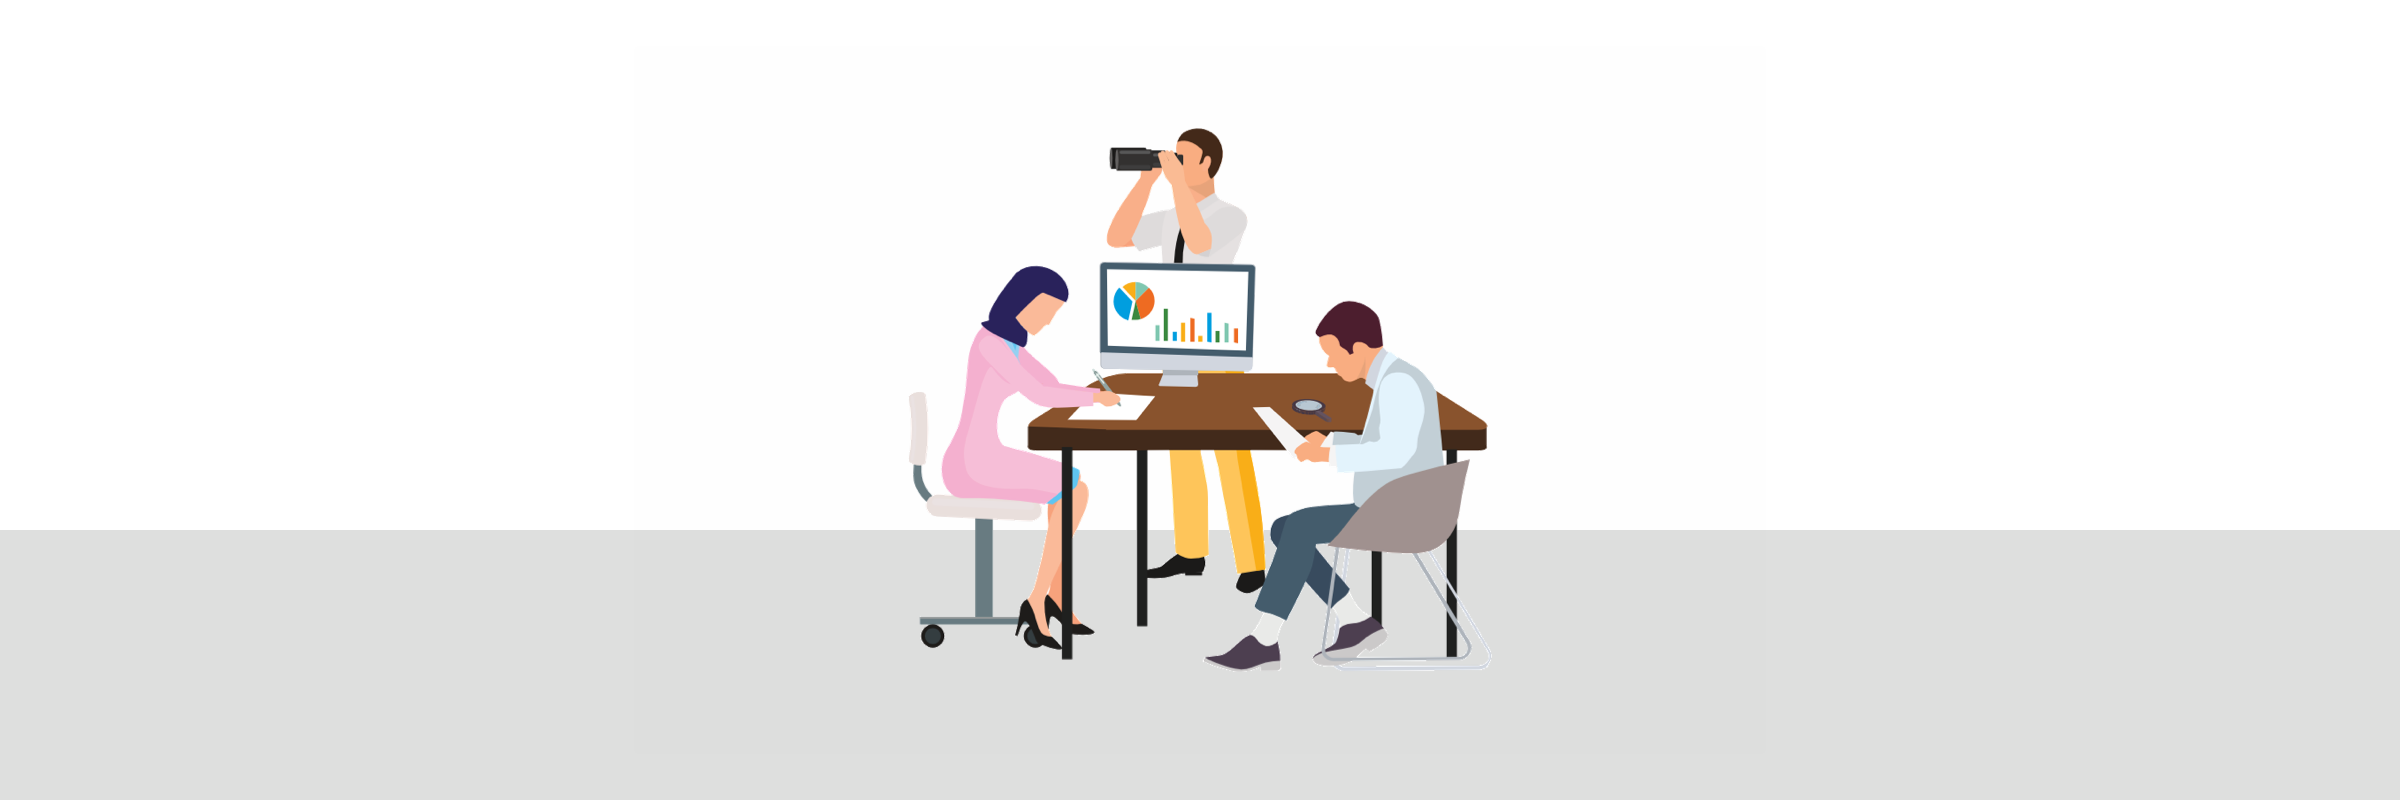
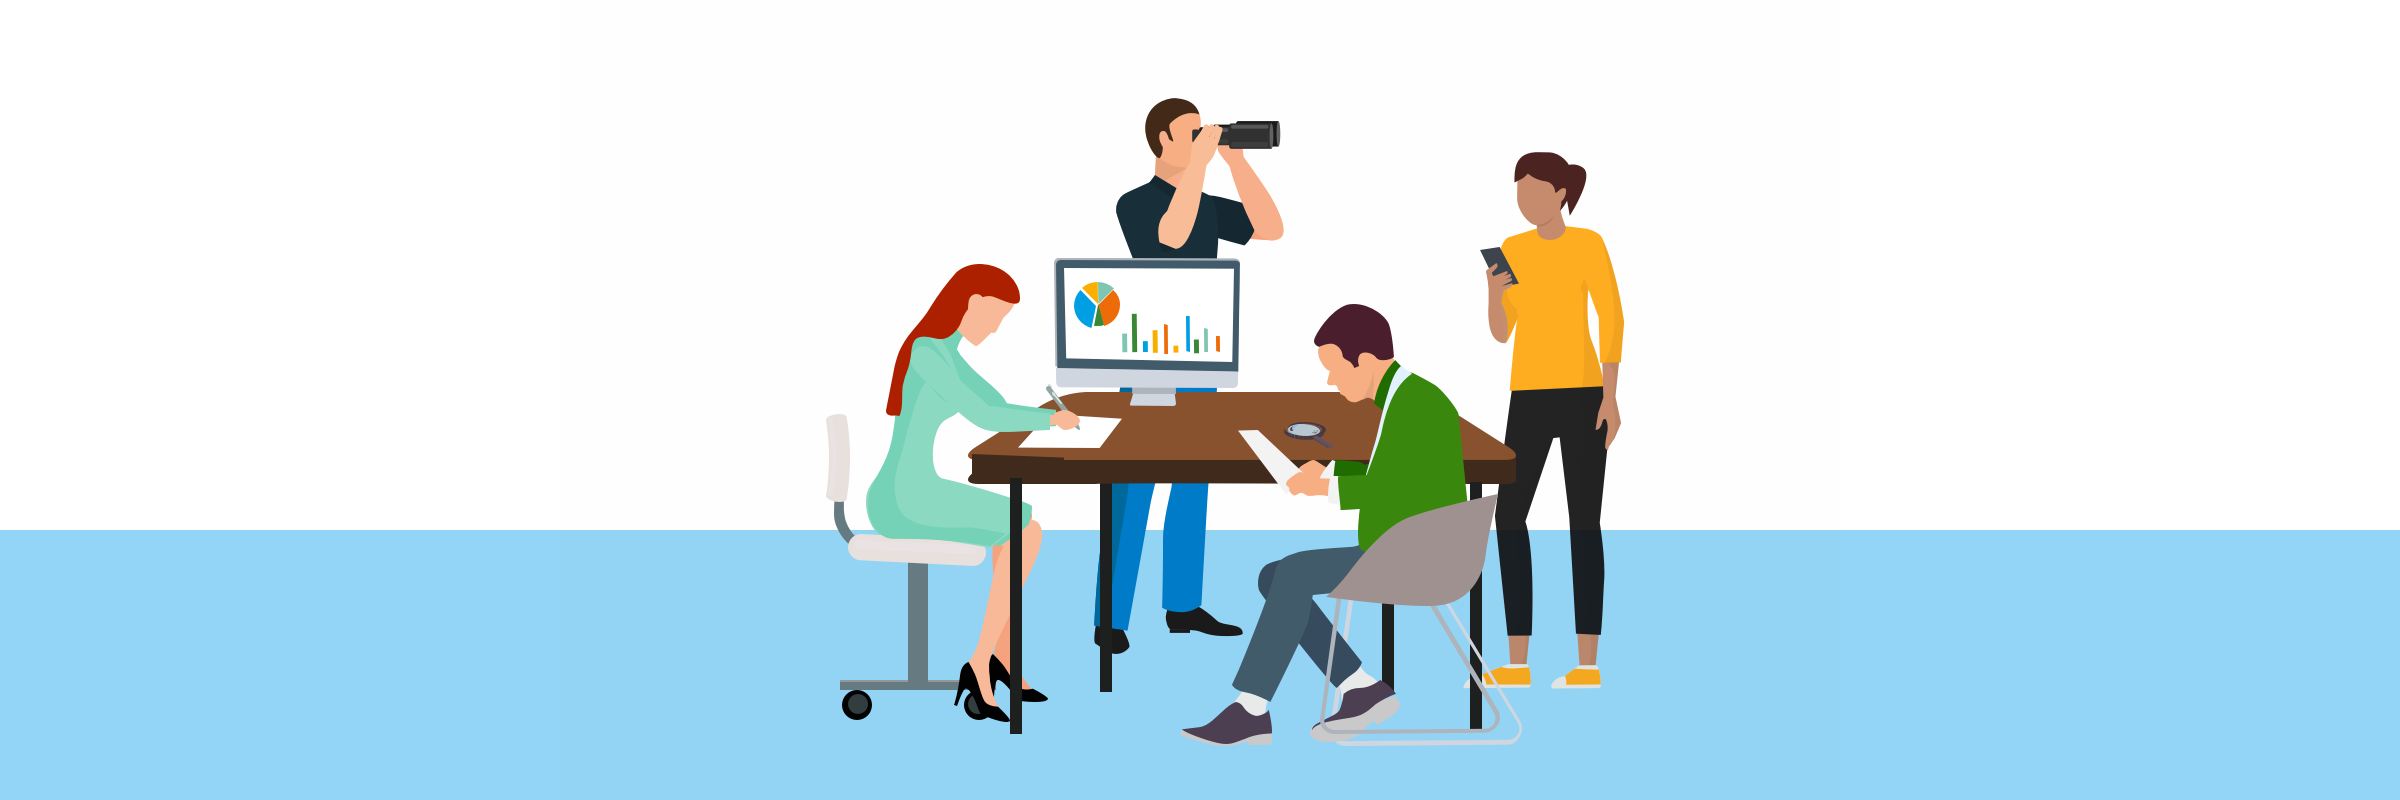
Datagedreven werken: plaatjes opnieuw gegenereerd; nummer 3 iets bijgewerkt qua grootte

diff --git a/less/70-pagetypes.less b/less/70-pagetypes.less
@@ -900,7 +900,7 @@
 				position: absolute;
 				text-align: center;
 				transition: all .2s ease-in-out; 
-				
+
 				&.has-link {
 					&:hover { 
 						animation-name: vergroot;
@@ -963,7 +963,6 @@
 
 				.svg {
 					max-width: 110px;
-//					border: 2px solid purple;
 					
 					svg {
 						vertical-align: middle;
@@ -1150,7 +1149,9 @@
 		@media only screen and ( min-width: @break_fullwidth ) {
 
 			height: 790px;
-			background-image: url('images/toolbox/datagedreven-werken/bg-blue.svg?asd');
+			background-image: url('images/toolbox/datagedreven-werken/bg-blue.svg?asdasd');
+			padding-top: 2rem;
+			padding-bottom: 2rem;
 
 			h2 {
 				color: @violet_vol;
@@ -1188,13 +1189,13 @@
 				left: 0;
 			}
 			#toolbox_principe_3 {
-				top: 0;
-				left: 530px;
-				width: 480px;
-
+				top: 10px;
+				left: 640px;
+				
 				a {
 					position: relative;
 					height: 240px;
+
 					img, h2 {
 						position: absolute;
 					}

diff --git a/style.css b/style.css
@@ -7632,7 +7632,9 @@ a.external:after {
 @media only screen and (min-width: 1200px) {
   #toolbox-datagedreven-werken-illustrations {
     height: 790px;
-    background-image: url('images/toolbox/datagedreven-werken/bg-blue.svg');
+    background-image: url('images/toolbox/datagedreven-werken/bg-blue.svg?asdasd');
+    padding-top: 2rem;
+    padding-bottom: 2rem;
   }
   #toolbox-datagedreven-werken-illustrations h2 {
     color: #a90061;
@@ -7665,9 +7667,8 @@ a.external:after {
     left: 0;
   }
   #toolbox-datagedreven-werken-illustrations #toolbox_principe_3 {
-    top: 0;
-    left: 530px;
-    width: 480px;
+    top: 10px;
+    left: 640px;
   }
   #toolbox-datagedreven-werken-illustrations #toolbox_principe_3 a {
     position: relative;
